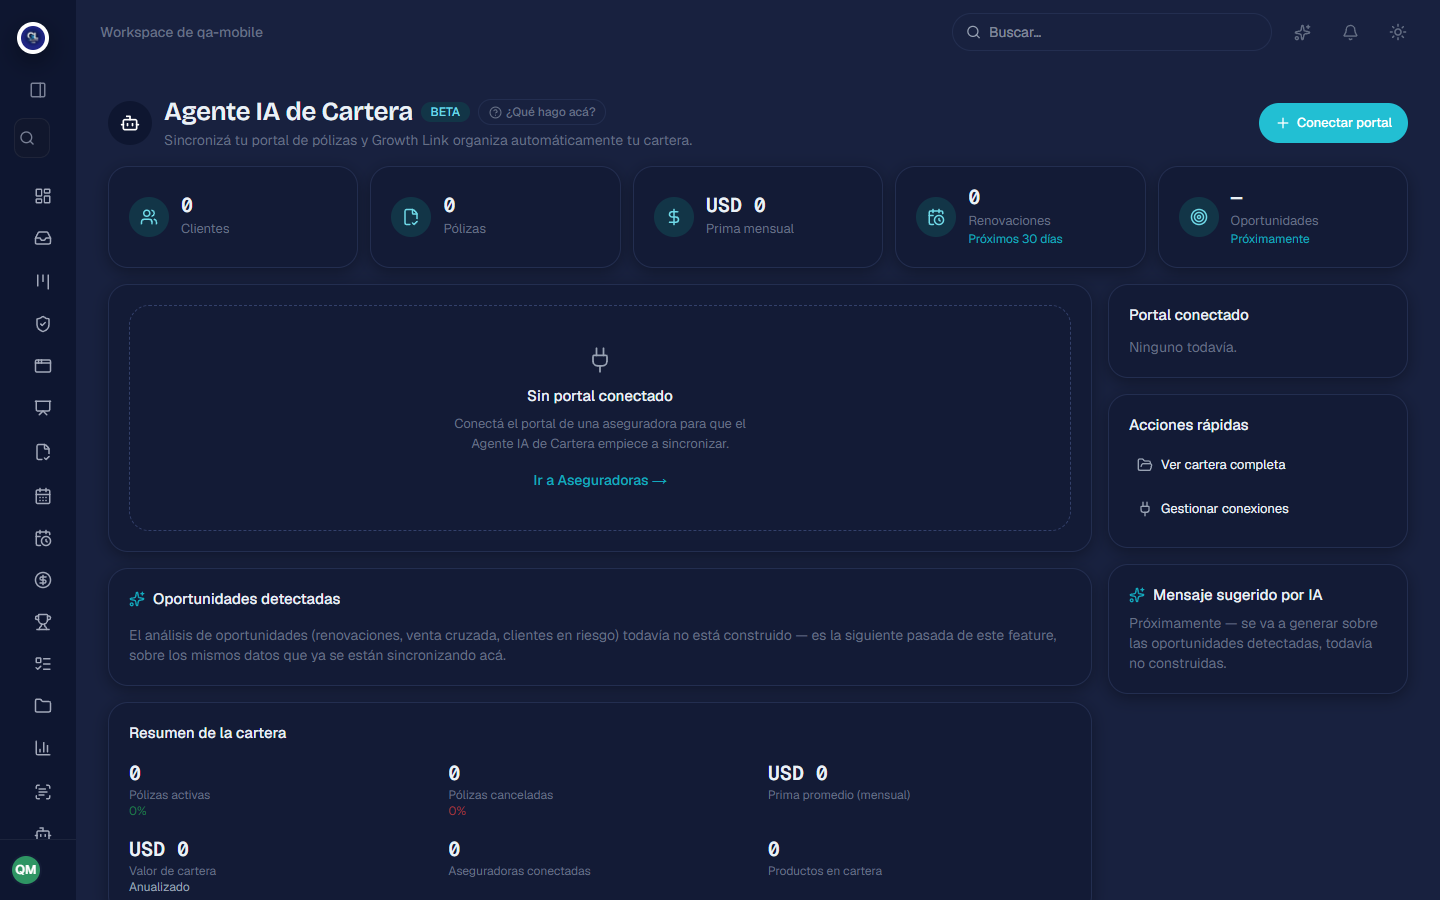
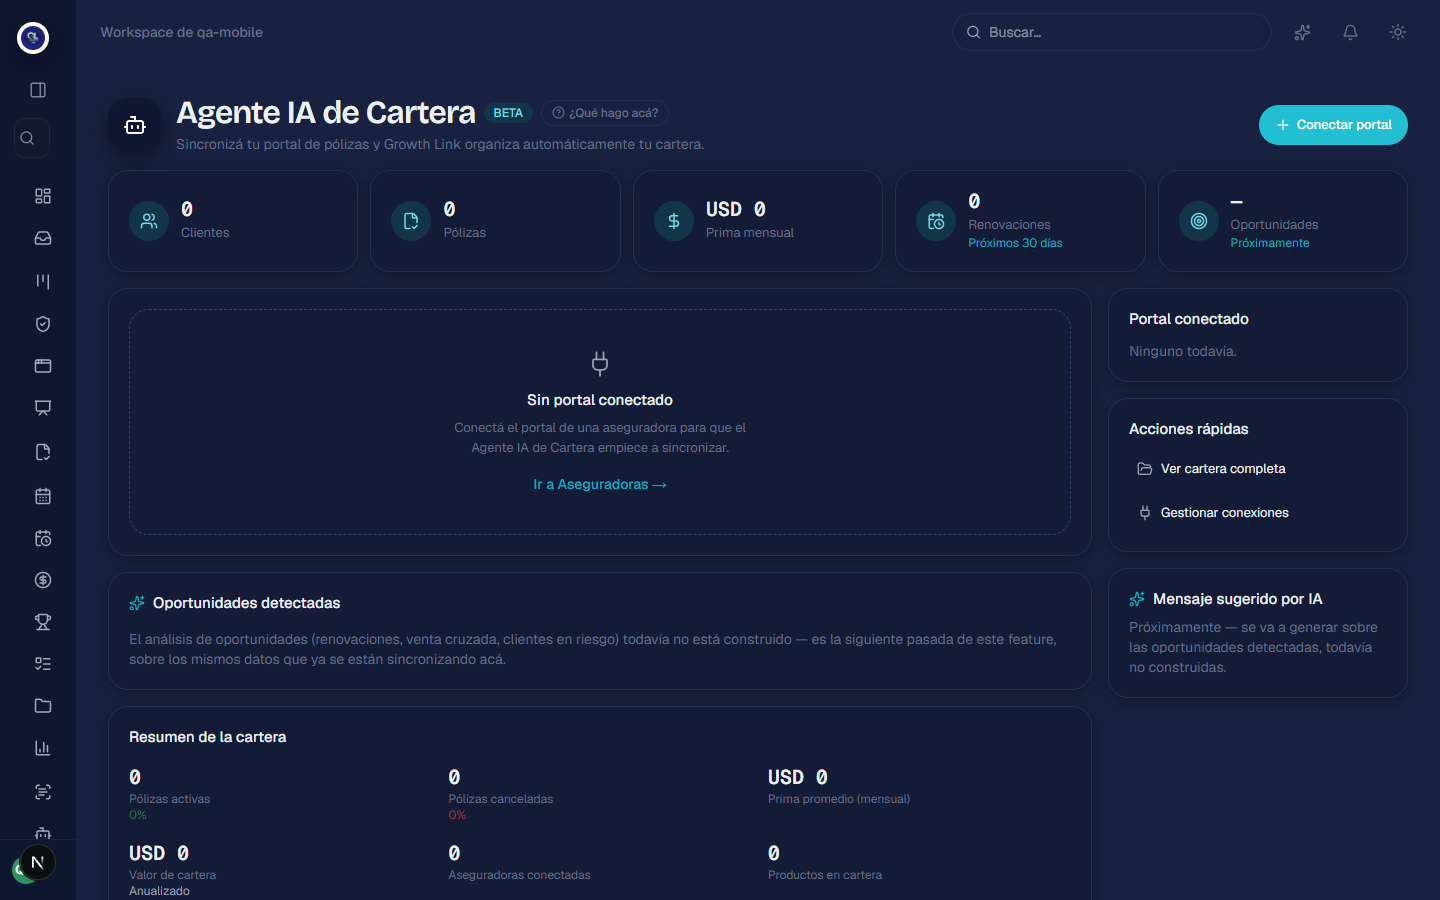
feat(rediseno): PageHeader en KPIs y Agente IA de Cartera
Completa el encabezado unificado: KPIs con el ícono Gauge y el Analizador
de cartera con su caja navy y el botón "Conectar portal" como acción.

diff --git a/src/app/(protected)/analizador-cartera/page.tsx b/src/app/(protected)/analizador-cartera/page.tsx
@@ -8,6 +8,7 @@ import { getInsuranceProvidersBoard } from "@/lib/insuranceProviders/queries";
 import { getCarteraSummary, getCarteraDetailSummary } from "@/lib/portfolioAgent/queries";
 import { PortfolioAgentShell } from "./PortfolioAgentShell";
 import { ModuleHelp } from "@/components/onboarding/ModuleHelp";
+import { PageHeader } from "@/components/ui/PageHeader";
 
 /** "Analizador de Cartera" — dashboard nuevo sobre los MISMOS datos que
  * /aseguradoras (conexiones, pólizas sincronizadas): esa pantalla sigue
@@ -29,20 +30,18 @@ export default async function PortfolioAgentPage() {
 
   return (
     <div className="flex flex-col gap-4 py-4 sm:py-6 lg:py-8">
-      <div className="flex items-center justify-between gap-3 px-4 sm:px-6 lg:px-8">
-        <div className="flex items-center gap-3">
-          <div className="flex size-11 shrink-0 items-center justify-center rounded-xl bg-navy text-white">
-            <Bot className="size-5" aria-hidden="true" />
-          </div>
-          <div className="flex flex-col gap-0.5">
-            <div className="flex items-center gap-2">
-              <h1 className="font-display text-[26px] leading-[32px] font-semibold tracking-[-0.02em] text-foreground">Agente IA de Cartera</h1>
+      <div className="px-4 sm:px-6 lg:px-8">
+        <PageHeader
+          icon={Bot}
+          title="Agente IA de Cartera"
+          description="Sincronizá tu portal de pólizas y Growth Link organiza automáticamente tu cartera."
+          titleAdornment={
+            <>
               <Badge variant="accent">BETA</Badge>
               <ModuleHelp description="Sincronizá el portal de una aseguradora y Growth Link organiza automáticamente tu cartera — sin cargar nada a mano." tourKey="portfolio-agent-intro" />
-            </div>
-            <p className="text-sm text-neutral-500">Sincronizá tu portal de pólizas y Growth Link organiza automáticamente tu cartera.</p>
-          </div>
-        </div>
+            </>
+          }
+          actions={
         <Link
           href="/aseguradoras"
           data-tour="portfolio-agent.connect-header-link"
@@ -51,6 +50,8 @@ export default async function PortfolioAgentPage() {
           <Plus className="size-4" aria-hidden="true" />
           Conectar portal
         </Link>
+          }
+        />
       </div>
       <div className="px-4 sm:px-6 lg:px-8">
         <PortfolioAgentShell initialSummary={summary} detailSummary={detailSummary} portalProvider={portalProvider} />

diff --git a/src/app/(protected)/kpis/page.tsx b/src/app/(protected)/kpis/page.tsx
@@ -6,6 +6,8 @@ import { KpisSection } from "./KpisSection";
 import { KpisTabStrip } from "./KpisTabStrip";
 import { AgendaKpisSection } from "./AgendaKpisSection";
 import { ModuleHelp } from "@/components/onboarding/ModuleHelp";
+import { PageHeader } from "@/components/ui/PageHeader";
+import { Gauge } from "lucide-react";
 
 export const metadata: Metadata = {
   title: "KPIs — Growth Link",
@@ -23,14 +25,13 @@ export default async function KpisPage({ searchParams }: { searchParams: Promise
 
   return (
     <div className="flex flex-col gap-4 py-4 sm:py-6 lg:py-8">
-      <div className="flex flex-col gap-1 px-4 sm:px-6 lg:px-8">
-        <div className="flex items-center gap-2">
-          <h1 className="font-display text-[26px] leading-[32px] font-semibold tracking-[-0.02em] text-foreground">KPIs</h1>
-          <ModuleHelp description="Los KPIs te muestran cómo está funcionando tu actividad — leads, contactos, citas y calificadas, sin abrir tu hoja." tourKey="kpis-intro" />
-        </div>
-        <p className="text-sm text-neutral-500">
-          {tab === "agendas" ? "Rendimiento de setters y asesores, a partir de las citas reales." : "Números de tus setters, sincronizados desde Google Sheets."}
-        </p>
+      <div className="px-4 sm:px-6 lg:px-8">
+        <PageHeader
+          icon={Gauge}
+          title="KPIs"
+          description={tab === "agendas" ? "Rendimiento de setters y asesores, a partir de las citas reales." : "Números de tus setters, sincronizados desde Google Sheets."}
+          titleAdornment={<ModuleHelp description="Los KPIs te muestran cómo está funcionando tu actividad — leads, contactos, citas y calificadas, sin abrir tu hoja." tourKey="kpis-intro" />}
+        />
       </div>
       <div className="px-4 sm:px-6 lg:px-8">
         <KpisTabStrip />
